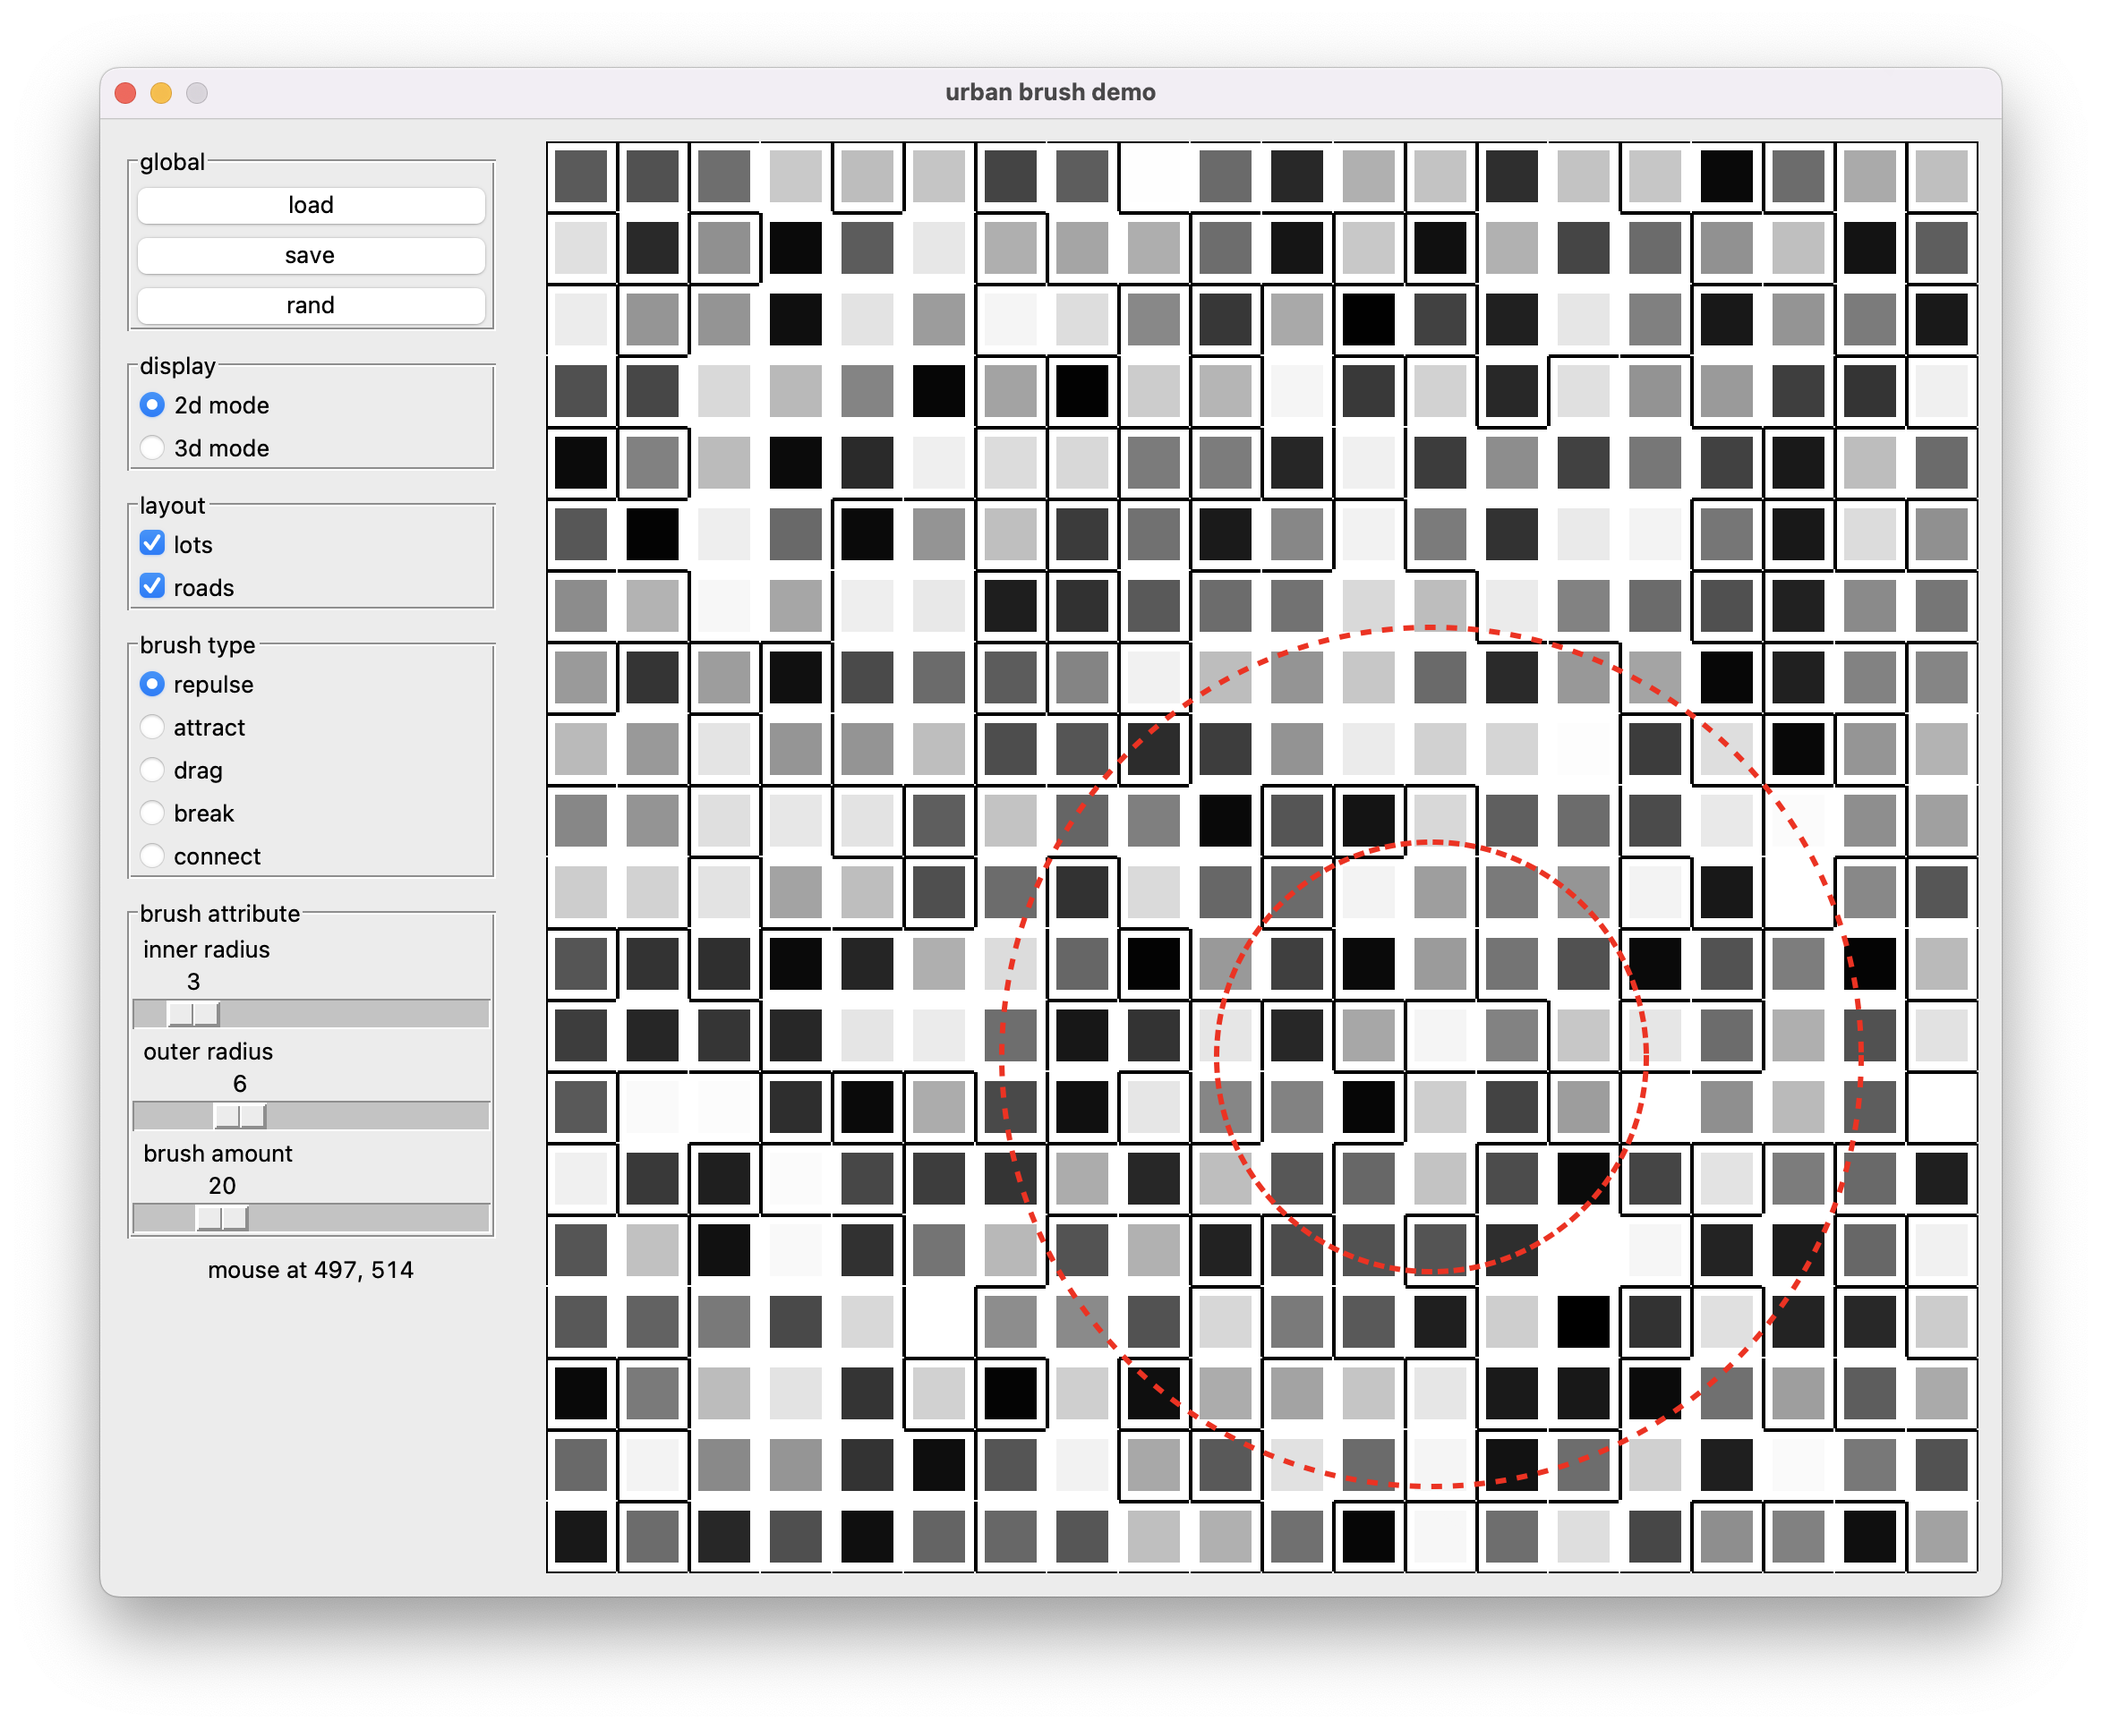
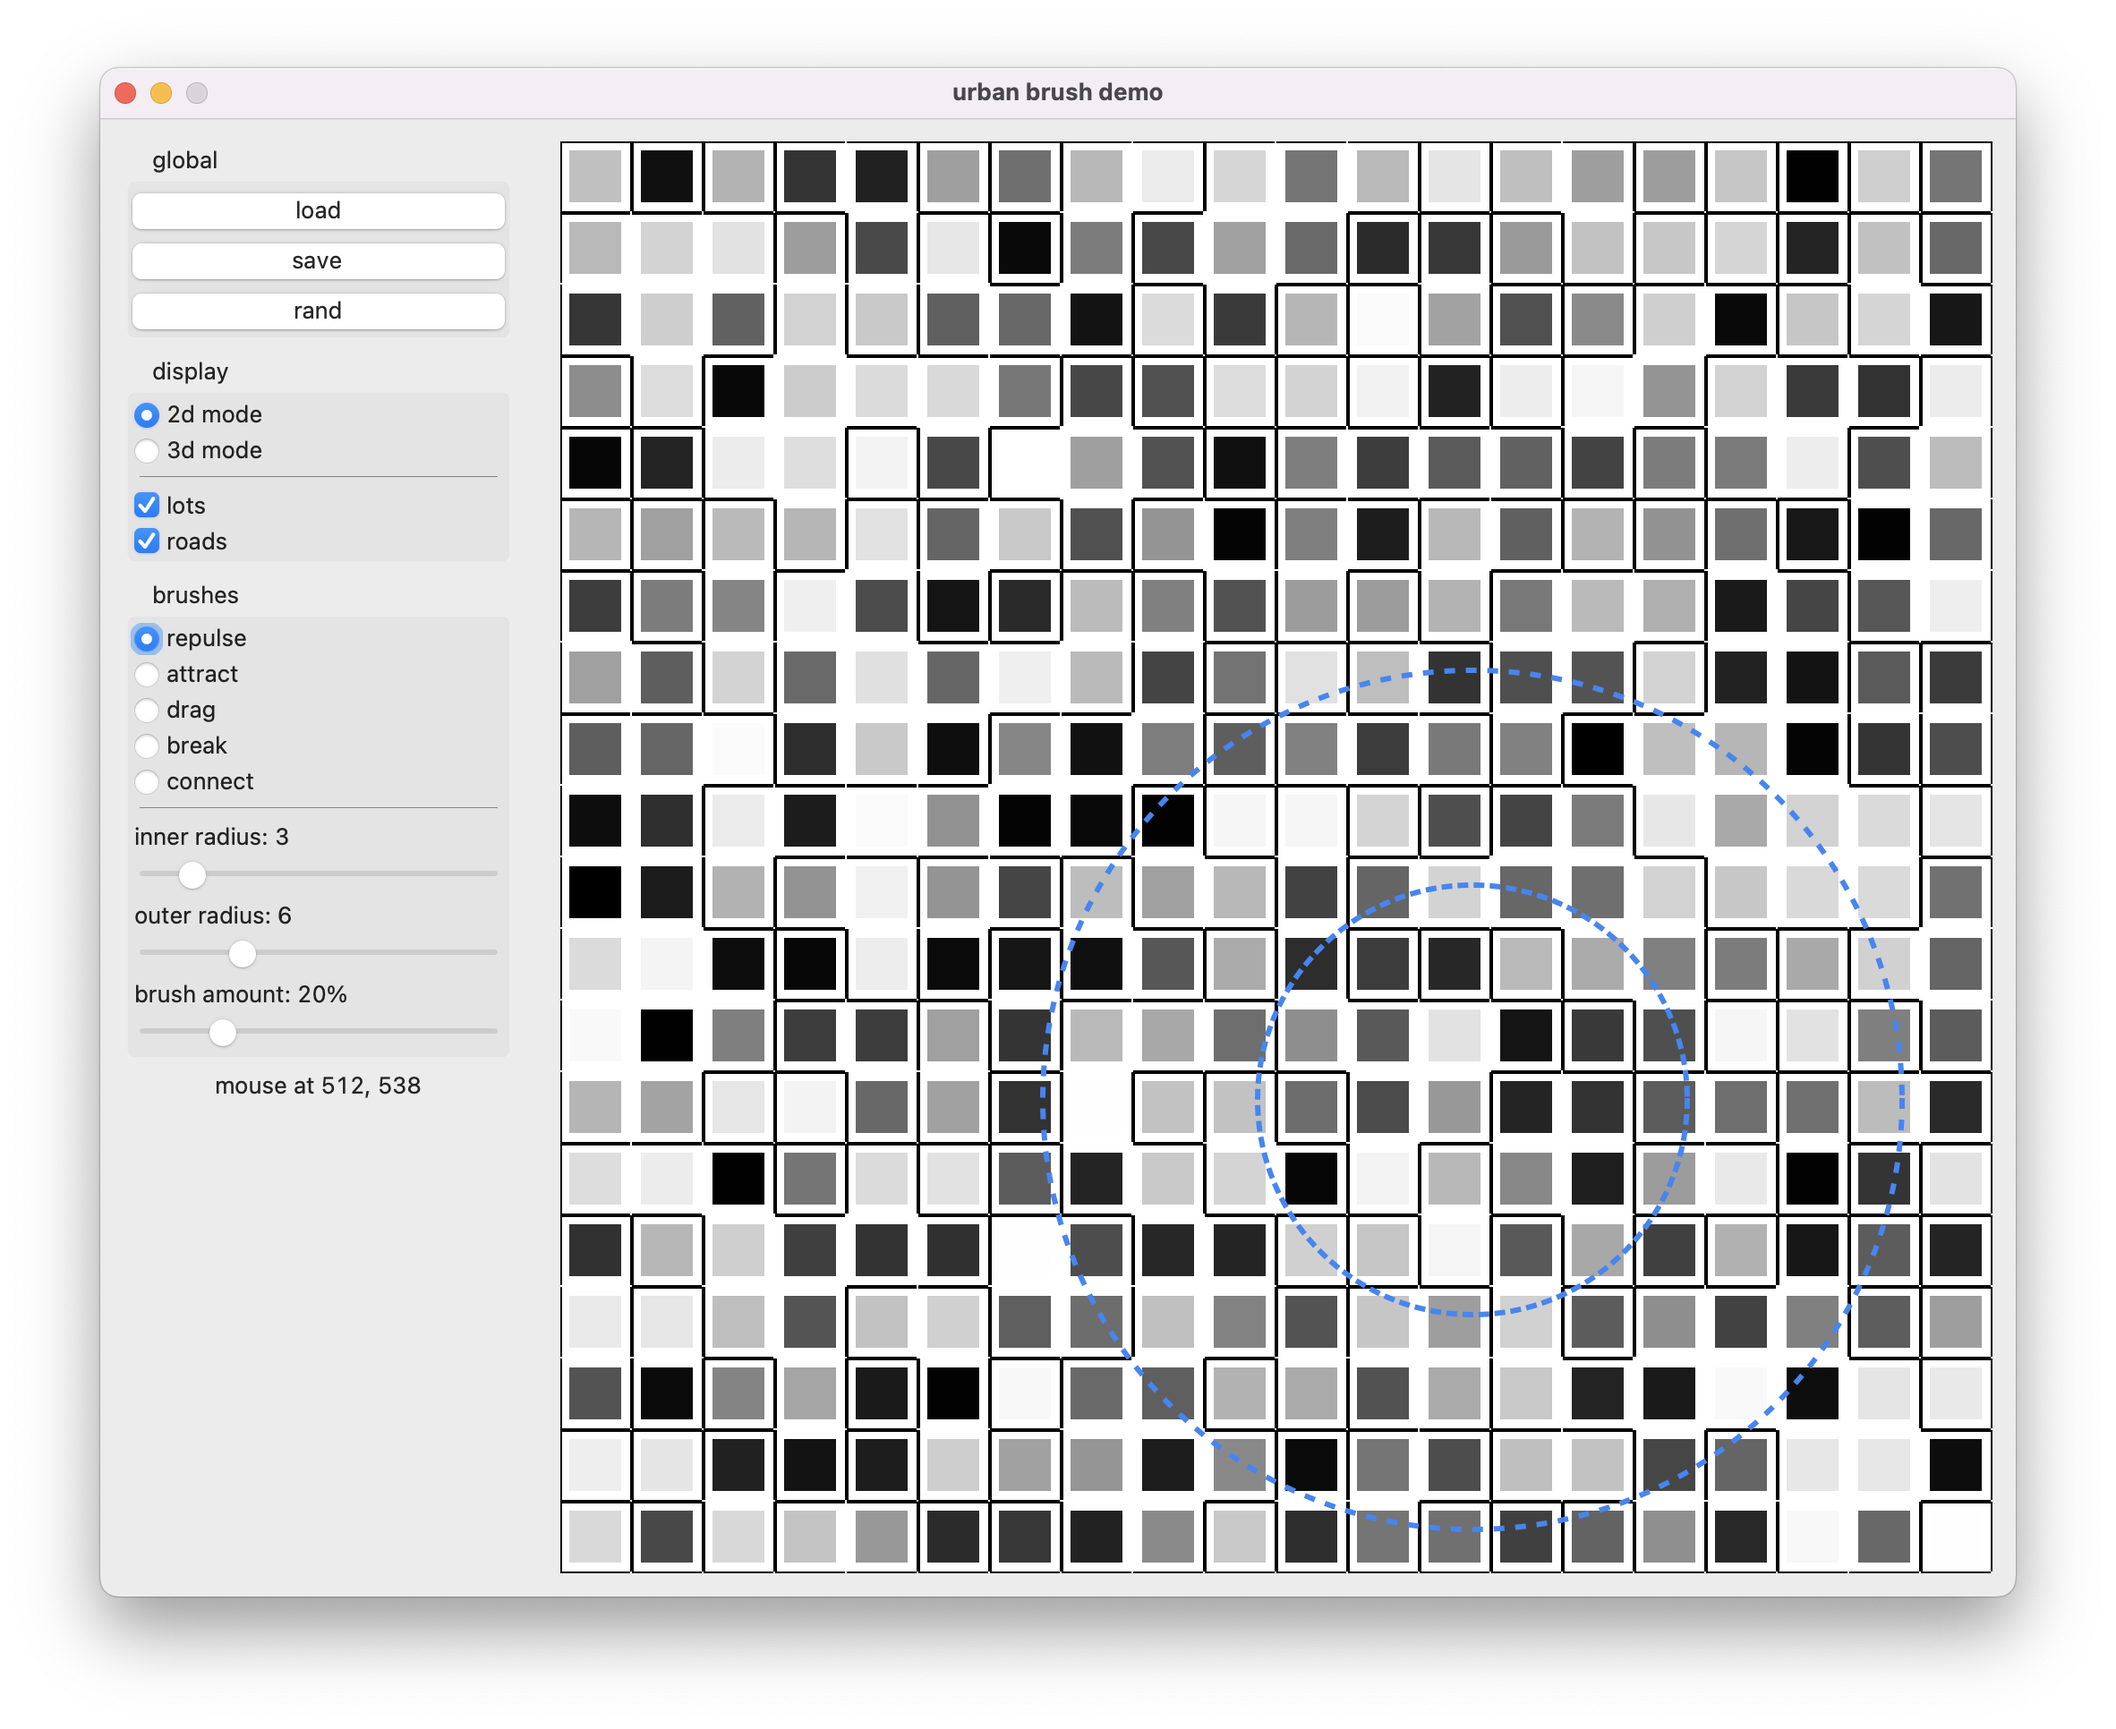
beautify ui with ttk

diff --git a/src/app.py b/src/app.py
@@ -1,6 +1,7 @@
 # app
 
 import tkinter as tk
+from tkinter import ttk
 from tkinter import filedialog
 import pickle
 
@@ -38,65 +39,63 @@ class App(object):
         self.outerRadius = tk.IntVar(value=6)
         self.brushAmount = tk.IntVar(value=20)
 
-        self.infoLabel = tk.StringVar('')
+        self.infoLabel = tk.StringVar(value='')
+        self.innerRadiusLabel = tk.StringVar(value=f'inner radius: {self.innerRadius.get()}')
+        self.outerRadiusLabel = tk.StringVar(value=f'outer radius: {self.outerRadius.get()}')
+        self.brushAmountLabel = tk.StringVar(value=f'brush amount: {self.brushAmount.get()}%')
 
         self.createControlPad(self.root)
         self.createCanvas(self.root)
     
     def createControlPad(self, master) -> None:
-        controlPad = tk.Frame(master)
+        controlPad = ttk.Frame(master)
         self.createGlobalPad(controlPad)
         self.createDisplayPad(controlPad)
-        self.createLayoutPad(controlPad)
-        self.createBrushTypePad(controlPad)
-        self.createBrushAttrPad(controlPad)
-        tk.Label(controlPad, textvariable=self.infoLabel).pack()
+        self.createBrushPad(controlPad)
+        ttk.Label(controlPad, textvariable=self.infoLabel).pack()
         controlPad.pack(anchor='n', side=tk.LEFT, padx=10, pady=10)
     
     def createGlobalPad(self, master) -> None:
-        globalPad = tk.LabelFrame(master, text='global')
-        tk.Button(globalPad, text='load', command=self.loadButton).pack(fill=tk.X)
-        tk.Button(globalPad, text='save', command=self.saveButton).pack(fill=tk.X)
-        tk.Button(globalPad, text='rand', command=self.randButton).pack(fill=tk.X)
+        globalPad = ttk.Labelframe(master, text='global')
+        ttk.Button(globalPad, text='load', command=self.loadButton).pack(fill=tk.X)
+        ttk.Button(globalPad, text='save', command=self.saveButton).pack(fill=tk.X)
+        ttk.Button(globalPad, text='rand', command=self.randButton).pack(fill=tk.X)
         globalPad.pack(fill=tk.X, padx=5, pady=5)
     
     def createDisplayPad(self, master) -> None:
-        displayPad = tk.LabelFrame(master, text='display')
-        tk.Radiobutton(displayPad, text='2d mode', variable=self.show3d, value=False, command=self.renderCanvas).pack(anchor='w')
-        tk.Radiobutton(displayPad, text='3d mode', variable=self.show3d, value=True, command=self.renderCanvas).pack(anchor='w')
+        displayPad = ttk.Labelframe(master, text='display')
+        ttk.Radiobutton(displayPad, text='2d mode', variable=self.show3d, value=False, command=self.renderCanvas).pack(anchor=tk.W)
+        ttk.Radiobutton(displayPad, text='3d mode', variable=self.show3d, value=True, command=self.renderCanvas).pack(anchor=tk.W)
+        ttk.Separator(displayPad, orient=tk.HORIZONTAL).pack(fill=tk.BOTH, padx=5, pady=5)
+        ttk.Checkbutton(displayPad, text='lots', variable=self.showLot, command=self.renderCanvas).pack(anchor=tk.W)
+        ttk.Checkbutton(displayPad, text='roads', variable=self.showRoad, command=self.renderCanvas).pack(anchor=tk.W)
         displayPad.pack(fill=tk.X, padx=5, pady=5)
-
-    def createLayoutPad(self, master) -> None:
-        layoutPad = tk.LabelFrame(master, text='layout')
-        tk.Checkbutton(layoutPad, text='lots', variable=self.showLot, command=self.renderCanvas).pack(anchor='w')
-        tk.Checkbutton(layoutPad, text='roads', variable=self.showRoad, command=self.renderCanvas).pack(anchor='w')
-        layoutPad.pack(fill=tk.X, padx=5, pady=5)
     
-    def createBrushTypePad(self, master) -> None:
-        brushTypePad = tk.LabelFrame(master, text='brush type')
-        tk.Radiobutton(brushTypePad, text='repulse', variable=self.brushType, value=App.BRUSH_TYPE_REPULSE).pack(anchor='w')
-        tk.Radiobutton(brushTypePad, text='attract', variable=self.brushType, value=App.BRUSH_TYPE_ATTRACT).pack(anchor='w')
-        tk.Radiobutton(brushTypePad, text='drag', variable=self.brushType, value=App.BRUSH_TYPE_DRAG).pack(anchor='w')
-        tk.Radiobutton(brushTypePad, text='break', variable=self.brushType, value=App.BRUSH_TYPE_BREAK).pack(anchor='w')
-        tk.Radiobutton(brushTypePad, text='connect', variable=self.brushType, value=App.BRUSH_TYPE_CONNECT).pack(anchor='w')
-        brushTypePad.pack(fill=tk.X, padx=5, pady=5)
+    def createBrushPad(self, master) -> None:
+        brushPad = ttk.Labelframe(master, text='brushes')
+        ttk.Radiobutton(brushPad, text='repulse', variable=self.brushType, value=App.BRUSH_TYPE_REPULSE).pack(anchor=tk.W)
+        ttk.Radiobutton(brushPad, text='attract', variable=self.brushType, value=App.BRUSH_TYPE_ATTRACT).pack(anchor=tk.W)
+        ttk.Radiobutton(brushPad, text='drag', variable=self.brushType, value=App.BRUSH_TYPE_DRAG).pack(anchor=tk.W)
+        ttk.Radiobutton(brushPad, text='break', variable=self.brushType, value=App.BRUSH_TYPE_BREAK).pack(anchor=tk.W)
+        ttk.Radiobutton(brushPad, text='connect', variable=self.brushType, value=App.BRUSH_TYPE_CONNECT).pack(anchor=tk.W)
+        ttk.Separator(brushPad, orient=tk.HORIZONTAL).pack(fill=tk.BOTH, padx=5, pady=5)
+        ttk.Label(brushPad, textvariable=self.innerRadiusLabel).pack(anchor=tk.W)
+        ttk.Scale(
+            brushPad, variable=self.innerRadius, from_=1, to=max(App.LOT_ROWS, App.LOT_COLS), orient=tk.HORIZONTAL, length=200,
+            command=lambda _: self.innerRadiusLabel.set(f'inner radius: {self.innerRadius.get()}')
+        ).pack(padx=5)
+        ttk.Label(brushPad, textvariable=self.outerRadiusLabel).pack(anchor=tk.W)
+        ttk.Scale(
+            brushPad, variable=self.outerRadius, from_=1, to=max(App.LOT_ROWS, App.LOT_COLS), orient=tk.HORIZONTAL, length=200,
+            command=lambda _: self.outerRadiusLabel.set(f'outer radius: {self.outerRadius.get()}')
+        ).pack(padx=5)
+        ttk.Label(brushPad, textvariable=self.brushAmountLabel).pack(anchor=tk.W)
+        ttk.Scale(
+            brushPad, variable=self.brushAmount, from_=0, to=100, orient=tk.HORIZONTAL, length=200,
+            command=lambda _: self.brushAmountLabel.set(f'brush amount: {self.brushAmount.get()}%')
+        ).pack(padx=5)
+        brushPad.pack(fill=tk.X, padx=5, pady=5)
     
-    def createBrushAttrPad(self, master) -> None:
-        brushAttrPad = tk.LabelFrame(master, text='brush attribute')
-        tk.Scale(
-            brushAttrPad, label='inner radius', variable=self.innerRadius,
-            from_=1, to=max(App.LOT_ROWS, App.LOT_COLS), orient=tk.HORIZONTAL, length=200
-        ).pack()
-        tk.Scale(
-            brushAttrPad, label='outer radius', variable=self.outerRadius,
-            from_=1, to=max(App.LOT_ROWS, App.LOT_COLS), orient=tk.HORIZONTAL, length=200
-        ).pack()
-        tk.Scale(
-            brushAttrPad, label='brush amount', variable=self.brushAmount,
-            from_=0, to=100, resolution=5, orient=tk.HORIZONTAL, length=200
-        ).pack()
-        brushAttrPad.pack(fill=tk.X, padx=5, pady=5)
-
     def createCanvas(self, master) -> None:
         # (3, 3) -- (802, 802)
         size = max(App.CANVAS_H, App.CANVAS_W)

diff --git a/src/view2d.py b/src/view2d.py
@@ -37,13 +37,13 @@ class View2d(object):
         canvas.delete('innerCircle')
         innerRadius = self.master.innerRadius.get() * self.master.LOT_SIZE
         x, y = self.rightClickPos if brushType == self.master.BRUSH_TYPE_DRAG and self.rightClickPos else (event.x, event.y)
-        canvas.create_oval(x - innerRadius, y - innerRadius, x + innerRadius, y + innerRadius, outline='red', width=3, dash=(3, 6), tags='innerCircle')
+        canvas.create_oval(x - innerRadius, y - innerRadius, x + innerRadius, y + innerRadius, outline='#3583f7', width=3, dash=(3, 6), tags='innerCircle')
         # plot the outer circle
         canvas.delete('outerCircle')
         if brushType == self.master.BRUSH_TYPE_BREAK: return
         outerRadius = self.master.outerRadius.get() * self.master.LOT_SIZE
         x, y = (event.x, event.y)
-        canvas.create_oval(x - outerRadius, y - outerRadius, x + outerRadius, y + outerRadius, outline='red', width=3, dash=(3, 9), tags='outerCircle')
+        canvas.create_oval(x - outerRadius, y - outerRadius, x + outerRadius, y + outerRadius, outline='#3583f7', width=3, dash=(3, 9), tags='outerCircle')
     
     def leftClick(self, event: tk.Event) -> None:
         self.leftClickPos = (event.x, event.y)

diff --git a/README.md b/README.md
@@ -66,8 +66,10 @@ I implemented 5 brushes in the demo and made some simplifications.
 
 ### 3.3.3 simplifications
 
-- the city layout is expressed by a 2d matrix
+Treat the city layout as a 2d grid:
 - the terrain is simply a plain (no mountains and rivers)
-- every lot takes up exactly one square unit
-- every lot only holds population as its attributes (job removed)
+- roads are limited to horizontal and vertical ones (4 directions at most, no arterials)
+- the concept of blocks was ignored (it does not matter at all)
+- a lot takes up exactly 1 unit (no need for merging and splitting)
+- a lot only holds population as its attribute (jobs are similar to population)
 - ...
